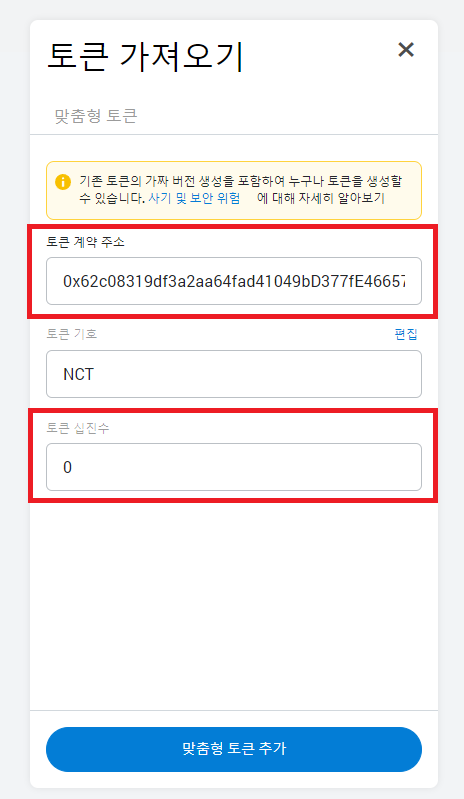
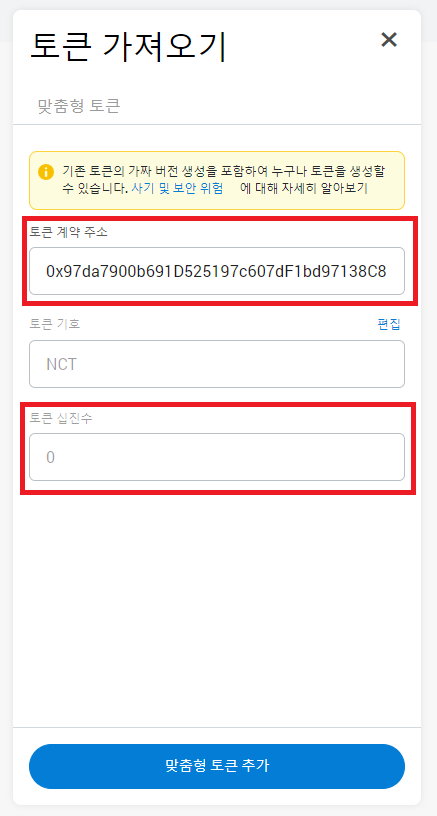
[S06P22E106-40] Fix : 가이드 페이지 수정

diff --git a/frontend/src/pages/Guide/Guide.tsx b/frontend/src/pages/Guide/Guide.tsx
@@ -1,4 +1,5 @@
 import styled from "styled-components";
+import { NFTcreatorAddress, SSFTokenAddress } from "../../web3Config";
 import Extra from "./extraguide";
 
 const Wrapper = styled.div`
@@ -62,11 +63,11 @@ const Guide = () => {
         <Img src="/essets/guideimage/메타마스크페이지_12_설명추가_cut.png" alt="사진" />
         
         <Token src="/essets/guideimage/메타마스크페이지_13_설명추가_cut.png" alt="사진" />
-        <h1> 토큰 계약 주소에 주소를 입력합니다. 0x6a2BBCa33ad091b4D95A290D18613D8466F3252d </h1>
+        <h1> 토큰 계약 주소에 주소를 입력합니다. {NFTcreatorAddress} </h1>
         <Token src="/essets/guideimage/메타마스크페이지_15_cut.png" alt="사진" />
         <h1>위와 같은 화면이 나옵니다.</h1>
         <Token src="/essets/guideimage/메타마스크페이지_14_설명추가_cut.png" alt="사진" />
-        <h1>한번더 해줍니다. 0x62c08319df3a2aa64fad41049bD377fE46657EBD</h1>
+        <h1>한번더 해줍니다. {SSFTokenAddress}</h1>
         
         <Token src="/essets/guideimage/메타마스크페이지_15-2_설명 추가_cut.png" alt="사진" />
         <h1>토큰 2개를 추가한 화면</h1>
